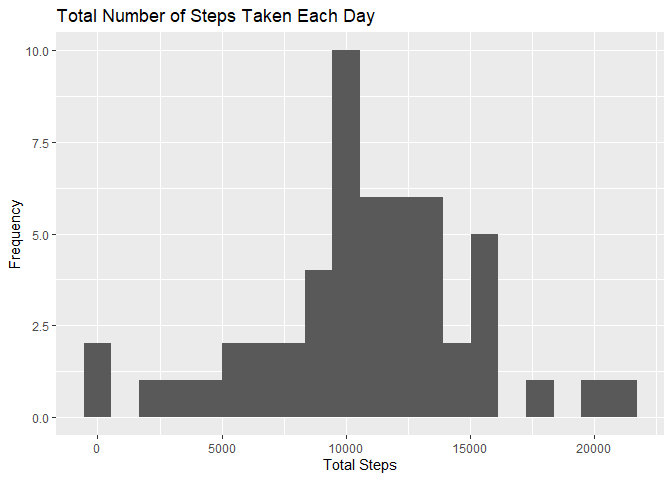
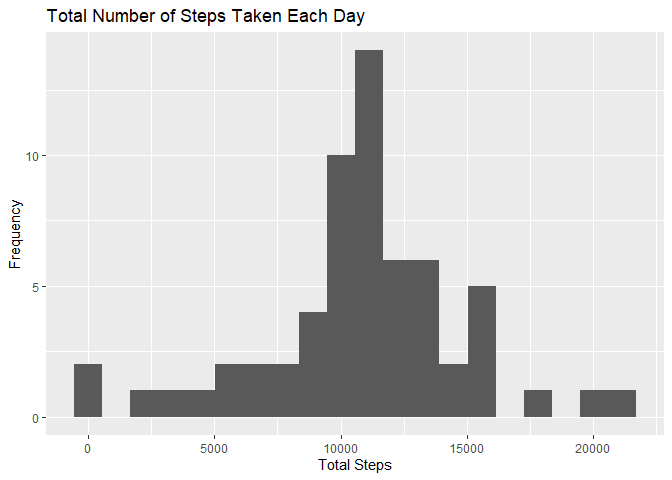
correct data representation

diff --git a/PA1_template.html b/PA1_template.html
@@ -422,30 +422,29 @@ ggplot(dfSum, aes(x = time, y= MeanSteps)) +
 <h2>Imputing missing values</h2>
 <pre class="r"><code>TotNA &lt;- sum(is.na(df$steps))
 
-## Missing values filled with median values of corresponding 5-minutes interval
-## Calculate median values for each interval
+## Missing values filled with mean values of corresponding 5-minutes interval
+## Calculate mean values for each interval
 dfMed &lt;- df %&gt;% group_by(interval) %&gt;% 
-      summarize(MedSteps = median(steps))
+      summarize(MedSteps = mean(steps, na.rm = TRUE))
 
-## Add median values to data frame
+## Add mean values to data frame
 dfImputed &lt;- left_join(df, dfMed)</code></pre>
 <pre><code>## Joining, by = &quot;interval&quot;</code></pre>
 <pre class="r"><code>## find rows with missing values
 na.id &lt;- which(is.na(df$steps))
 
-## Replace missing values by median values
+## Replace missing values by mean values
 dfImputed[na.id, &quot;steps&quot;] &lt;- dfImputed[na.id, &quot;MedSteps&quot;]
 dfImputed &lt;- select(dfImputed, -MedSteps)
 
-## Make a histogram and calculate mean and median values
+## Make a histogram and calculate mean and mean values
 dfSum &lt;- dfImputed %&gt;% group_by(date) %&gt;% 
       summarize(TotSteps = sum(steps)) 
 
 ggplot(dfSum, aes(x = TotSteps)) +
   geom_histogram(bins = 20) +
   labs(x = &quot;Total Steps&quot;, y = &quot;Frequency&quot;, title = &quot;Total Number of Steps Taken Each Day&quot;)</code></pre>
-<pre><code>## Warning: Removed 8 rows containing non-finite values (stat_bin).</code></pre>
[2 lines of base64/hex data omitted]
 <pre class="r"><code>MeanTotStepsImputed &lt;- mean(dfSum$TotSteps)
 MedianTotStepsImputed &lt;- median(dfSum$TotSteps)
 
@@ -453,8 +452,8 @@ MeanImpact &lt;- MeanTotStepsImputed - MeanTotSteps
 MedianImpact &lt;- MedianTotStepsImputed - MedianTotSteps</code></pre>
 <p>Total number of missing values in the dataset: 2304<br />
 Impact of imputing missing data on the estimates of the total daily number of steps:<br />
-- Mean Value: NA<br />
-- Median Value: NA</p>
+- Mean Value: 0<br />
+- Median Value: 1.19</p>
 </div>
 <div id="are-there-differences-in-activity-patterns-between-weekdays-and-weekends" class="section level2">
 <h2>Are there differences in activity patterns between weekdays and weekends?</h2>
@@ -462,20 +461,19 @@ Impact of imputing missing data on the estimates of the total daily number of st
 <pre><code>## [1] &quot;LC_COLLATE=English_United States.1252;LC_CTYPE=English_United States.1252;LC_MONETARY=English_United States.1252;LC_NUMERIC=C;LC_TIME=English_United States.1252&quot;</code></pre>
 <pre class="r"><code>dfImputed$Week &lt;- factor(ifelse(weekdays(dfImputed$date) %in% c(&quot;Saturday&quot;, &quot;Sunday&quot;), &quot;weekend&quot;, &quot;weekday&quot;))
 
-dfSum1 &lt;- dfImputed %&gt;% group_by(Week, interval) %&gt;% 
+dfSum &lt;- dfImputed %&gt;% group_by(Week, interval) %&gt;% 
       summarize(MeanSteps = mean(steps))
 
-dfSum1$time &lt;- sprintf(&quot;%04d&quot;, dfSum1$interval)
-dfSum1$time &lt;- as.POSIXct(strptime(dfSum1$time, format = &quot;%H%M&quot;), tz=&quot;GMT&quot;)
+dfSum$time &lt;- sprintf(&quot;%04d&quot;, dfSum$interval)
+dfSum$time &lt;- as.POSIXct(strptime(dfSum$time, format = &quot;%H%M&quot;), tz=&quot;GMT&quot;)
 
-ggplot(dfSum1, aes(x = time, y= MeanSteps)) +
+ggplot(dfSum, aes(x = time, y= MeanSteps)) +
       geom_line() +
       facet_grid(Week ~ .) +
       labs(x = &quot;Time Interval&quot;, y = &quot;Average Steps&quot;, 
            title = &quot;Number of Steps Taken, Averaged Across All Days&quot;) +
       scale_x_datetime(breaks = date_breaks(&quot;4 hour&quot;), labels=date_format(&quot;%H:%M&quot;))</code></pre>
-<pre><code>## Warning: Removed 576 rows containing missing values (geom_path).</code></pre>
[2 lines of base64/hex data omitted]
 </div>
 
 

diff --git a/PA1_template.md b/PA1_template.md
@@ -100,12 +100,12 @@ MaxStepInt <- dfSum$interval[dfSum$MeanSteps == max(dfSum$MeanSteps)]
 ```r
 TotNA <- sum(is.na(df$steps))
 
-## Missing values filled with median values of corresponding 5-minutes interval
-## Calculate median values for each interval
+## Missing values filled with mean values of corresponding 5-minutes interval
+## Calculate mean values for each interval
 dfMed <- df %>% group_by(interval) %>% 
-      summarize(MedSteps = median(steps))
+      summarize(MedSteps = mean(steps, na.rm = TRUE))
 
-## Add median values to data frame
+## Add mean values to data frame
 dfImputed <- left_join(df, dfMed)
 ```
 
@@ -117,21 +117,17 @@ dfImputed <- left_join(df, dfMed)
 ## find rows with missing values
 na.id <- which(is.na(df$steps))
 
-## Replace missing values by median values
+## Replace missing values by mean values
 dfImputed[na.id, "steps"] <- dfImputed[na.id, "MedSteps"]
 dfImputed <- select(dfImputed, -MedSteps)
 
-## Make a histogram and calculate mean and median values
+## Make a histogram and calculate mean and mean values
 dfSum <- dfImputed %>% group_by(date) %>% 
       summarize(TotSteps = sum(steps)) 
 
 ggplot(dfSum, aes(x = TotSteps)) +
   geom_histogram(bins = 20) +
   labs(x = "Total Steps", y = "Frequency", title = "Total Number of Steps Taken Each Day")
-```
-
-```
-## Warning: Removed 8 rows containing non-finite values (stat_bin).
 ```
 
 ![](PA1_template_files/figure-html/unnamed-chunk-4-1.png)<!-- -->
@@ -145,8 +141,8 @@ MedianImpact <- MedianTotStepsImputed - MedianTotSteps
 ```
 Total number of missing values in the dataset: 2304  
 Impact of imputing missing data on the estimates of the total daily number of steps:  
-- Mean Value: NA  
-- Median Value: NA  
+- Mean Value: 0  
+- Median Value: 1.19  
   
     
 ## Are there differences in activity patterns between weekdays and weekends?
@@ -162,22 +158,18 @@ Sys.setlocale("LC_ALL","English")
 ```r
 dfImputed$Week <- factor(ifelse(weekdays(dfImputed$date) %in% c("Saturday", "Sunday"), "weekend", "weekday"))
 
-dfSum1 <- dfImputed %>% group_by(Week, interval) %>% 
+dfSum <- dfImputed %>% group_by(Week, interval) %>% 
       summarize(MeanSteps = mean(steps))
 
-dfSum1$time <- sprintf("%04d", dfSum1$interval)
-dfSum1$time <- as.POSIXct(strptime(dfSum1$time, format = "%H%M"), tz="GMT")
+dfSum$time <- sprintf("%04d", dfSum$interval)
+dfSum$time <- as.POSIXct(strptime(dfSum$time, format = "%H%M"), tz="GMT")
 
-ggplot(dfSum1, aes(x = time, y= MeanSteps)) +
+ggplot(dfSum, aes(x = time, y= MeanSteps)) +
       geom_line() +
       facet_grid(Week ~ .) +
       labs(x = "Time Interval", y = "Average Steps", 
            title = "Number of Steps Taken, Averaged Across All Days") +
       scale_x_datetime(breaks = date_breaks("4 hour"), labels=date_format("%H:%M"))
-```
-
-```
-## Warning: Removed 576 rows containing missing values (geom_path).
 ```
 
 ![](PA1_template_files/figure-html/facet-1.png)<!-- -->
